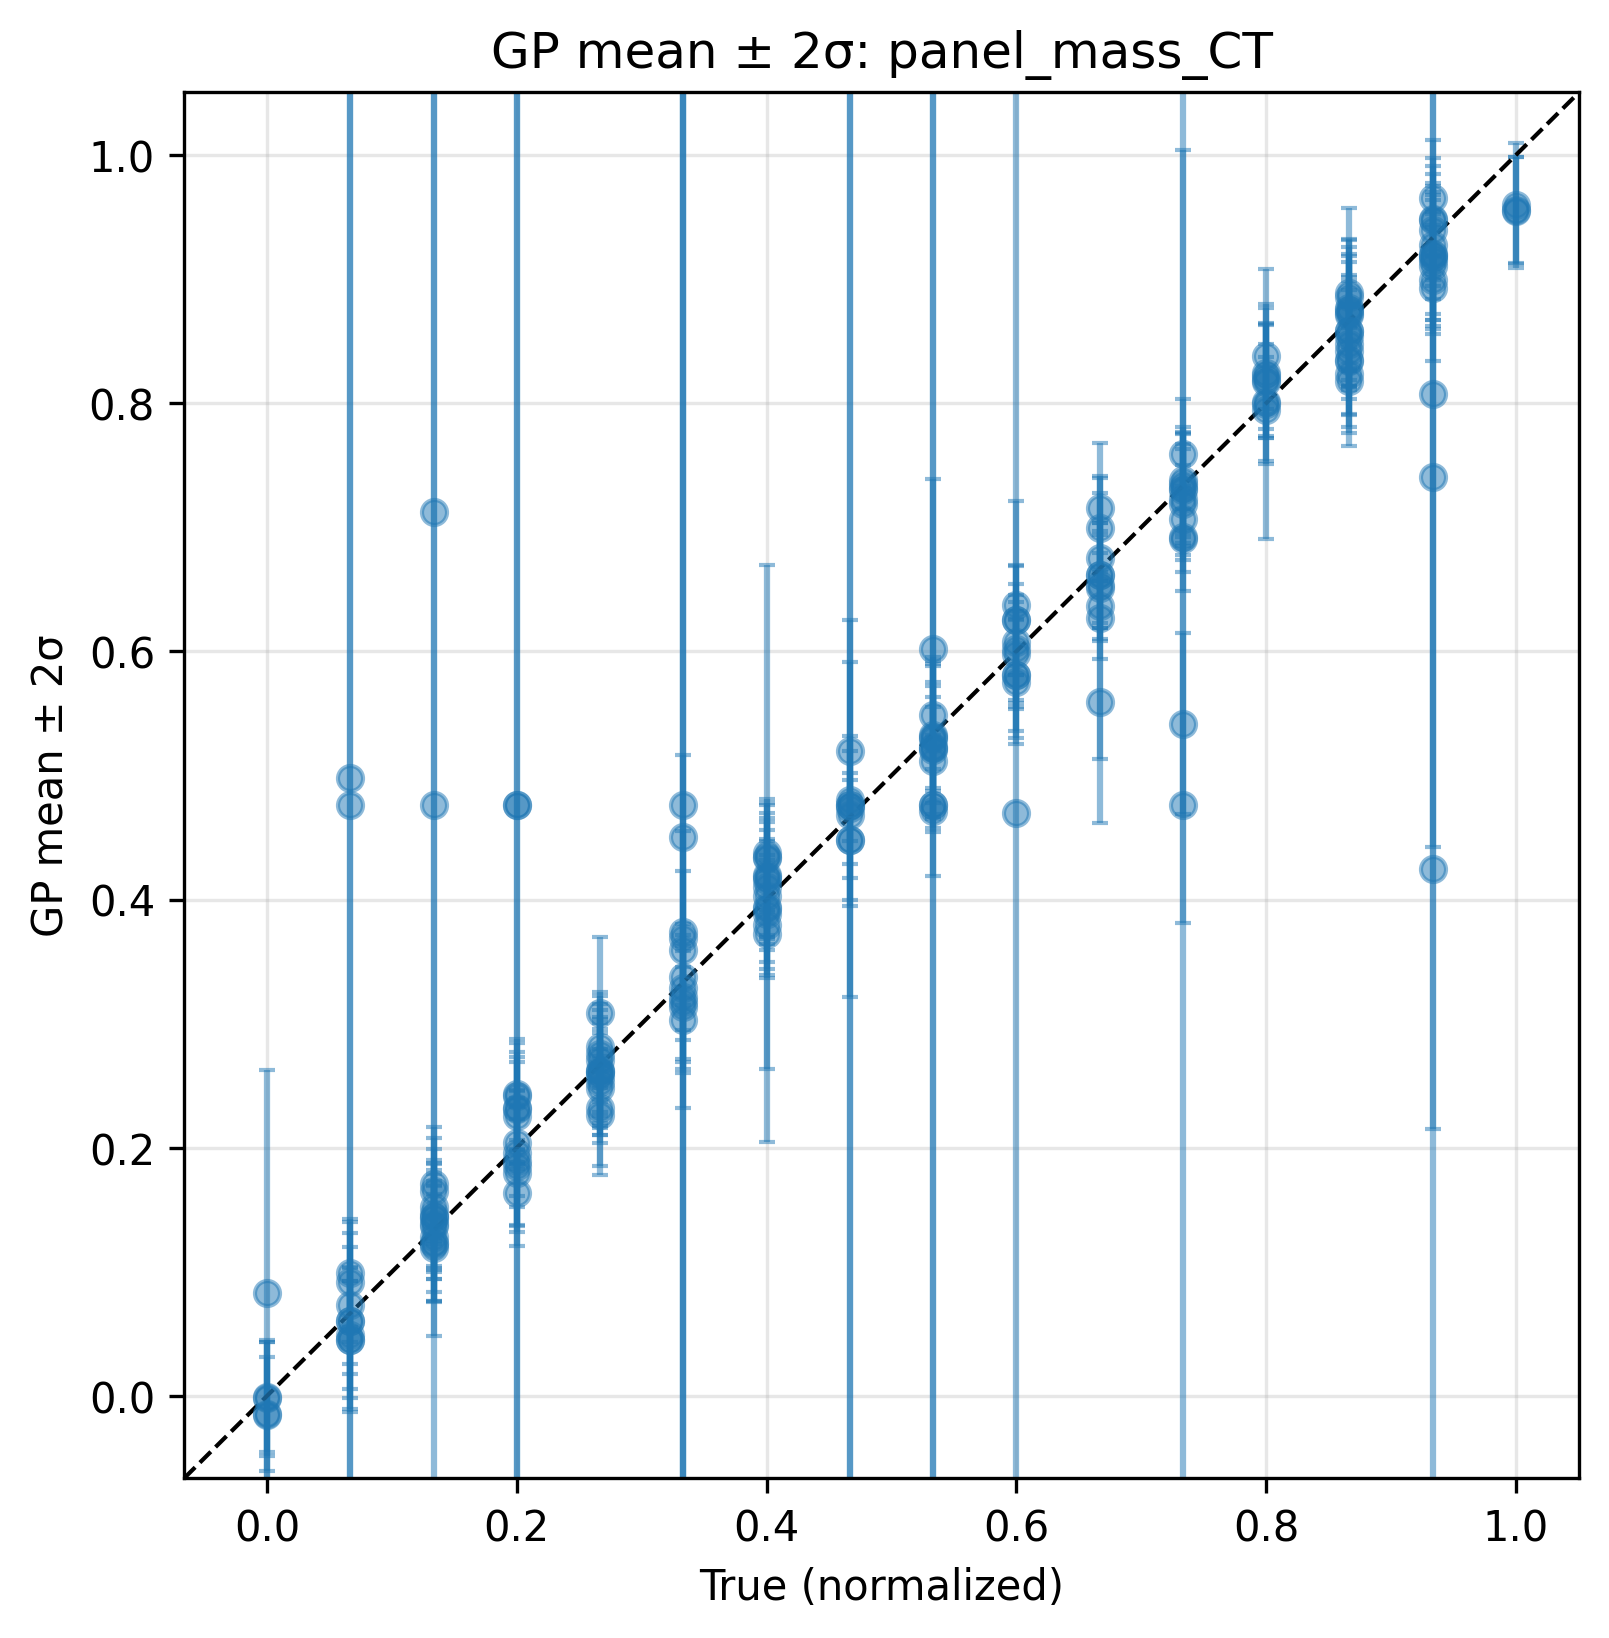
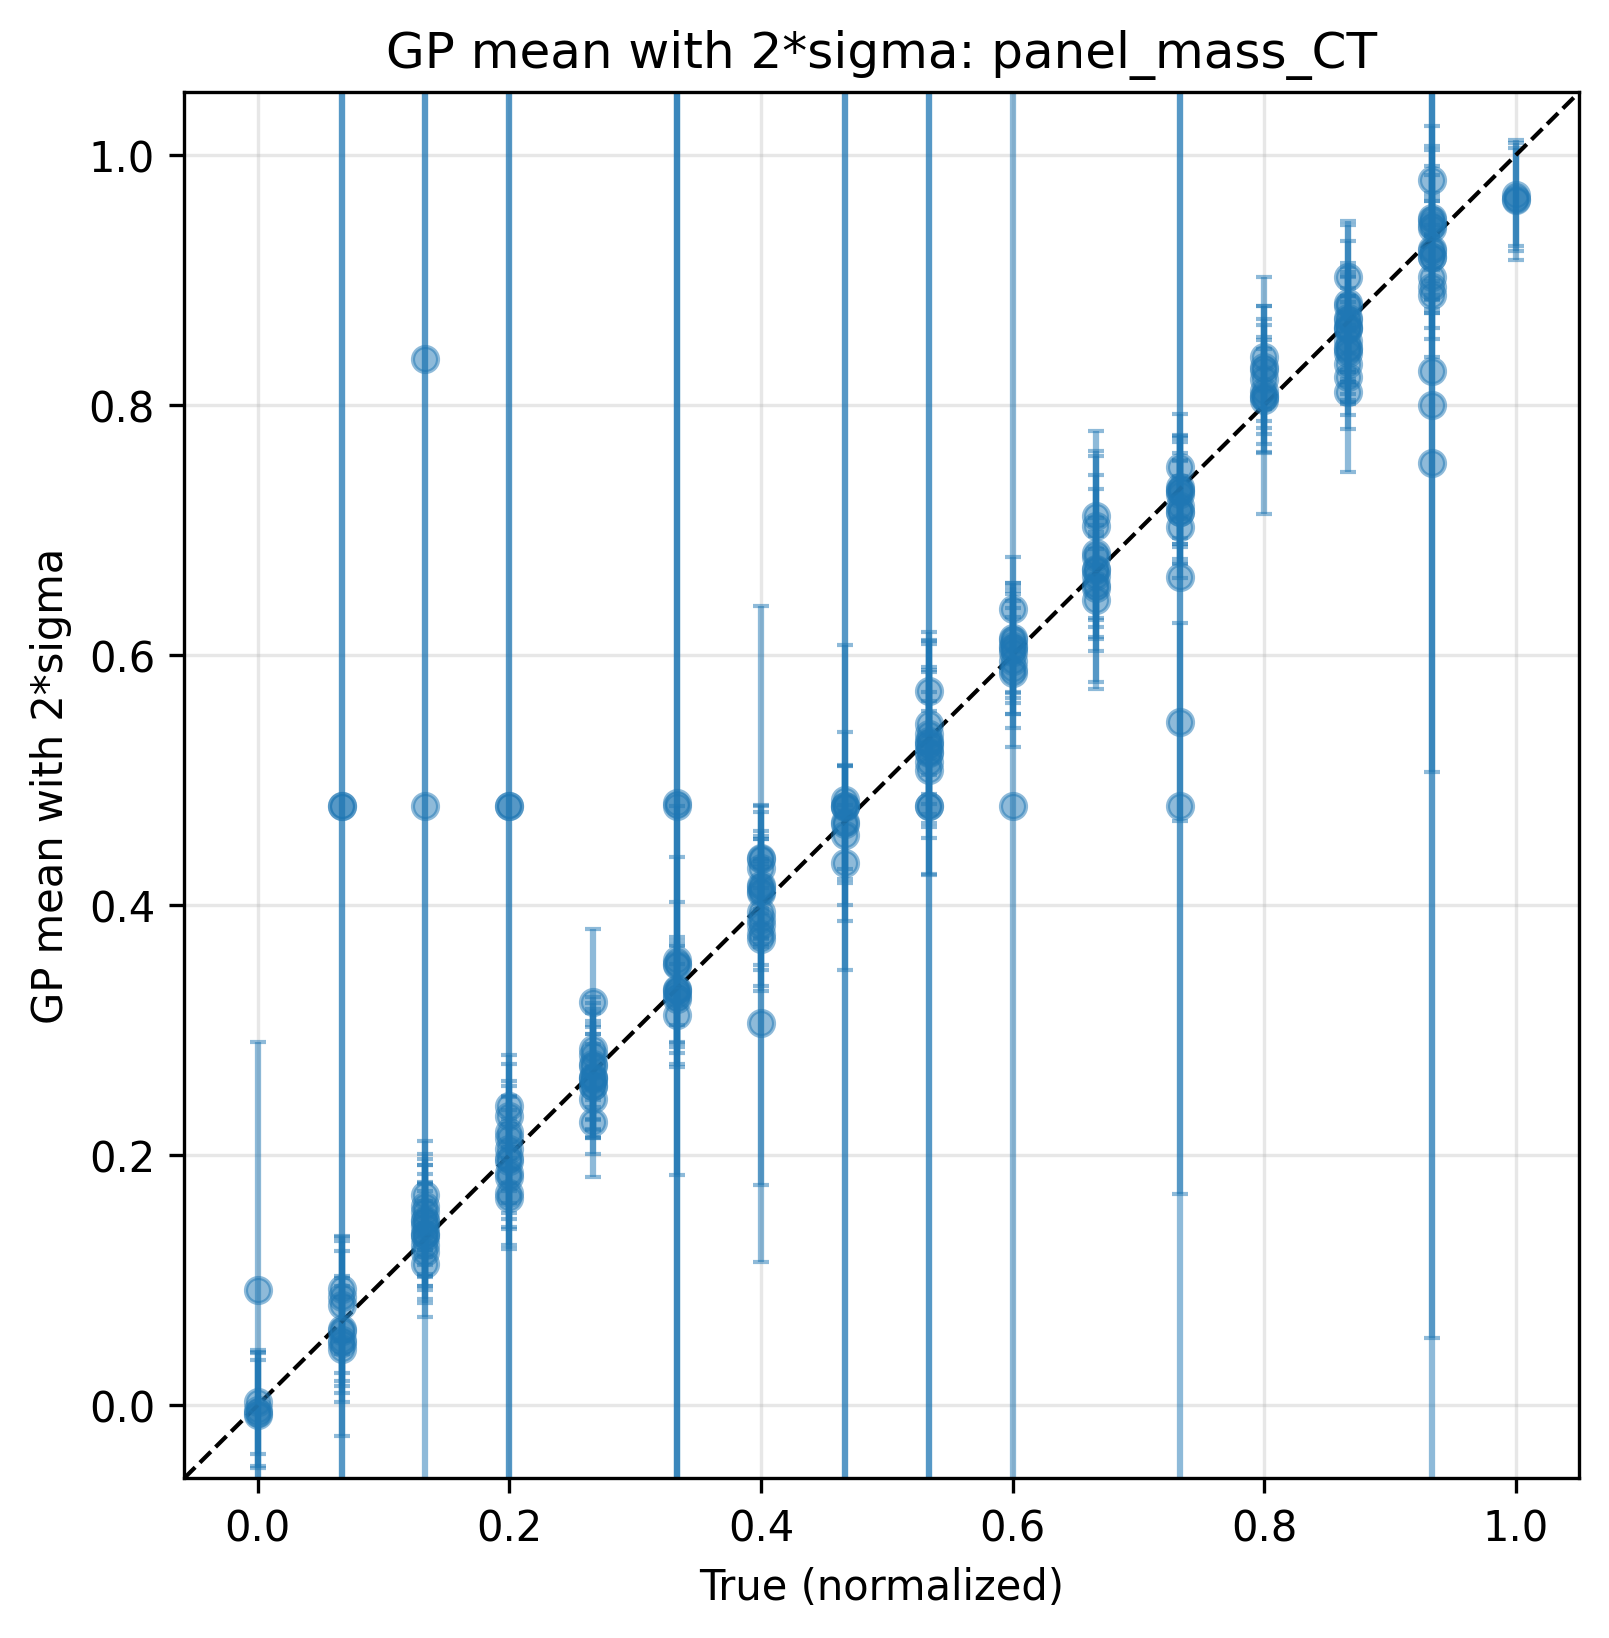
Adding comments and kernel/mean tests

diff --git a/main.py b/main.py
@@ -23,21 +23,17 @@ from torch.utils.data import DataLoader, TensorDataset
 from sklearn.model_selection import train_test_split
 from sklearn.decomposition import PCA
 
-
 def main():
     # ===============================
     # 1. LOAD + NORMALIZE DATA
     # ===============================
     X, y, param_keys, feature_keys = load_json_timeseries(DATA_DIR)
-
     X = normalize_X(X)
     y_norm, y_min, y_max, constant_mask = normalize_y(y)
-
     param_keys_filtered = [
         k for k, is_const in zip(param_keys, constant_mask) if not is_const
         ]
-
-
+    """Split is done before any model training, so it shuold not be any further data contamination"""
     Xtr, Xte, ytr, yte = train_test_split(
         X, y_norm, test_size=0.2, random_state=42
     )
@@ -85,29 +81,29 @@ def main():
             val_loss, _, _ = eval_epoch(
                 model, test_loader, criterion, device
             )
-
             print(
                 f"Epoch {epoch+1:03d}/{NUM_EPOCHS} "
                 f"| Train {train_loss:.4f} | Val {val_loss:.4f}"
             )
-
         gru_models.append(model)
 
     # ===============================
     # 3. GAUSSIAN PROCESSES
     # ===============================
+    # Testing if condition correct
     assert len(gru_models) == len(param_keys_filtered) == ytr.shape[1]
-    #for target_idx, model_t in enumerate(gru_models):
     for target_idx, (name, model_t) in enumerate(zip(param_keys_filtered, gru_models)):
         model_t = gru_models[target_idx]
         print(f"\n=== Training GP for {param_keys_filtered[target_idx]} ===")
 
-        # Freeze GRU
+        """Freezing the GRU (stop computing gradients) to treat is as a fixed feature extractor.
+        GP (modeling the function over a fixed input space) assumes that the inputs are fixed.
+        """
         for p in model_t.parameters():
             p.requires_grad = False
         model_t.eval()
 
-        # ---- embeddings ----
+        # Extracting embeddings - meaning the most GRU 
         Z_train = extract_embeddings(model_t, Xtr, device)
         Z_test  = extract_embeddings(model_t, Xte, device)
 
@@ -120,7 +116,9 @@ def main():
         Z_train = (Z_train - Z_mean) / Z_std
         Z_test  = (Z_test  - Z_mean) / Z_std
 
-        # PCA
+        """PCA - reducing the data components. Finds combinations of original 
+           features that explain the most variation in the data.
+        """
         pca = PCA(n_components=20)
         Z_train = torch.from_numpy(pca.fit_transform(Z_train.numpy())).float()
         Z_test  = torch.from_numpy(pca.transform(Z_test.numpy())).float()
@@ -133,7 +131,6 @@ def main():
         )
 
         gp_model = EmbeddingGP(Z_train, y_train_gp, likelihood)
-
         gp_model.train()
         likelihood.train()
 
@@ -147,7 +144,7 @@ def main():
             loss.backward()
             optimizer.step()
 
-        # ---- inference ----
+        # Inference
         gp_model.eval()
         likelihood.eval()
 
@@ -160,19 +157,15 @@ def main():
         # 4. PLOTTING
         # ===============================
         y_true = y_test_gp.numpy()
-
         plot_gp_mean_only(
             y_true, mean, param_keys_filtered[target_idx]
         )
-
         plot_gp_with_2sigma(
             y_true, mean, std, param_keys_filtered[target_idx]
         )
-
         plot_gp_sqrt_uncertainty(
             y_true, mean, std, param_keys_filtered[target_idx]
         )
-
 
 if __name__ == "__main__":
     main()

diff --git a/plotting/gp_plots.py b/plotting/gp_plots.py
@@ -22,7 +22,6 @@ def plot_gp_mean_only(y_true, mean, name):
 
     lo, hi = _setup_axes(y_true, mean)
     ax.plot([lo, hi], [lo, hi], "k--", lw=1)
-
     ax.set_xlim(lo, hi)
     ax.set_ylim(lo, hi)
     ax.set_xlabel("True (normalized)")
@@ -55,8 +54,8 @@ def plot_gp_with_2sigma(y_true, mean, std, name):
     ax.set_xlim(lo, hi)
     ax.set_ylim(lo, hi)
     ax.set_xlabel("True (normalized)")
-    ax.set_ylabel("GP mean ± 2σ")
-    ax.set_title(f"GP mean ± 2σ: {name}")
+    ax.set_ylabel("GP mean with 2*sigma")
+    ax.set_title(f"GP mean with 2*sigma: {name}")
     ax.grid(alpha=0.3)
 
     fig.savefig(
@@ -69,7 +68,6 @@ def plot_gp_with_2sigma(y_true, mean, std, name):
 
 def plot_gp_sqrt_uncertainty(y_true, mean, std, name):
     fig, ax = plt.subplots(figsize=(6, 6))
-
     ax.errorbar(
         y_true, mean,
         yerr=np.sqrt(std),
@@ -77,15 +75,13 @@ def plot_gp_sqrt_uncertainty(y_true, mean, std, name):
         alpha=0.5,
         capsize=2
     )
-
     lo, hi = _setup_axes(y_true, mean)
     ax.plot([lo, hi], [lo, hi], "k--", lw=1)
-
     ax.set_xlim(lo, hi)
     ax.set_ylim(lo, hi)
     ax.set_xlabel("True (normalized)")
-    ax.set_ylabel("GP mean ± √σ")
-    ax.set_title(f"GP mean ± √σ: {name}")
+    ax.set_ylabel("GP mean and sqrt(sigma)")
+    ax.set_title(f"GP mean and sqrt(sigma): {name}")
     ax.grid(alpha=0.3)
 
     fig.savefig(

diff --git a/gp/gp.py b/gp/gp.py
@@ -6,13 +6,19 @@ class EmbeddingGP(gpytorch.models.ExactGP):
         # Mean function, before seeing the data, assume the function is flat
         # GP learns deviations via the kernel
         self.mean_module = gpytorch.means.ConstantMean() 
-        # Covariance module
+        # self.mean_module = gpytorch.means.LinearMean(train_x.shape[1]) # Does not work at all
+        # Covariance module, testing different Mean and Kernel
         self.covar_module = gpytorch.kernels.ScaleKernel(
-    gpytorch.kernels.MaternKernel(
-        nu=2.5,
-        ard_num_dims=train_x.shape[1]
-    )
-)
+            gpytorch.kernels.RBFKernel(
+                ard_num_dims=train_x.shape[1]
+            )
+        )
+#         self.covar_module = gpytorch.kernels.ScaleKernel(
+#     gpytorch.kernels.MaternKernel(
+#         nu=2.5,
+#         ard_num_dims=train_x.shape[1]
+#     )
+# )
     def forward(self, x):
         mean_x = self.mean_module(x)
         covar_x = self.covar_module(x)

diff --git a/config.py b/config.py
@@ -1,9 +1,11 @@
 # config.py
+# Correspodning folders 
 DATA_DIR = "ml_data/"
 FIG_DIR="figuresGRU"
 MEAN_PLOTS_DIR="Mean_only_plots"
 UNCERTAINTY_DIR="Sqrt_uncertainty_images"
 
+# Data preparation parameters 
 INPUT_SIZE=29
 HIDDEN_SIZE=64
 NUM_LAYERS=2
